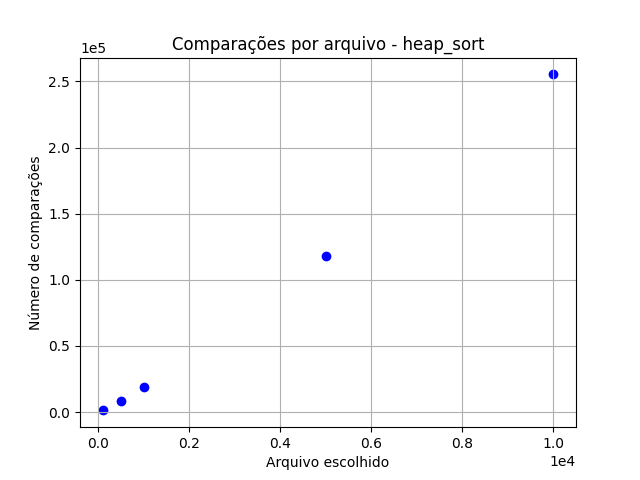
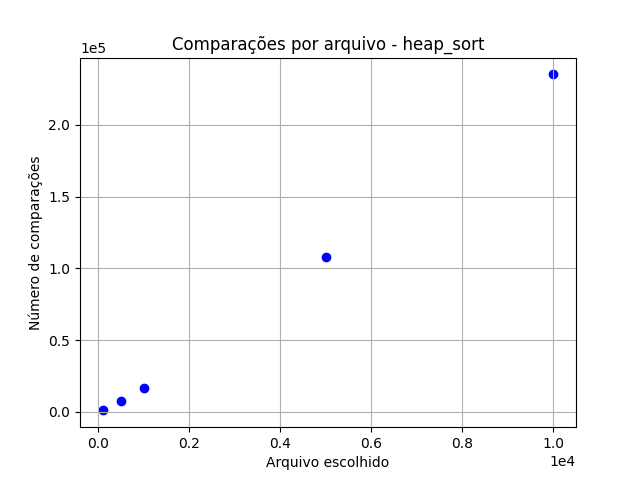
Improve heap_sort algorithm
It is still not working just like Renato's. But I am each time more
convinced that the numbers in the PDF are wrong. The algorithm is
working just fine and I can't think of any more precise way to measure
its comparisons and moves and yet the numbers are divergent.

diff --git a/src/sorting/methods/heap_sort.h b/src/sorting/methods/heap_sort.h
@@ -1,20 +1,20 @@
 void heapify(char **array, int left, int right) {
     int i = left;
-    int j = 2 * left;
+    int j = (2 * left);
     char x[STRING_SIZE];
-    move(x, array[left]);
 
+    move(x, array[left]);
     if ((j < right) && (compare(array[j], array[j + 1]) < 0)) {
-        j = j + 1;
+        j++;
     }
 
     while ((j <= right) && (compare(x, array[j]) < 0)) {
         move(array[i], array[j]);
         i = j;
-        j = 2 * j;
+        j *= 2;
 
         if ((j < right) && (compare(array[j], array[j + 1]) < 0)) {
-            j = j + 1;
+            j++;
         }
     }
 
@@ -25,14 +25,18 @@ char *heap_sort(char **array, int size) {
     int left;
     int right;
 
-    for (left = size / 2; left >= 0; left--) {
+    array = right_shift(array, &size);
+
+    for (left = ((size - 1) / 2); left > 0; left--) {
         heapify(array, left, size - 1);
     }
 
-    for (right = size - 1; right > 0; right--) {
-        swap(array[0], array[right]);
-        heapify(array, 0, right - 1);
+    for (right = (size - 1); right > 1; right--) {
+        swap(array[1], array[right]);
+        heapify(array, 1, right - 1);
     }
+
+    array = left_shift(array, &size);
 
     return "heap_sort";
 }
